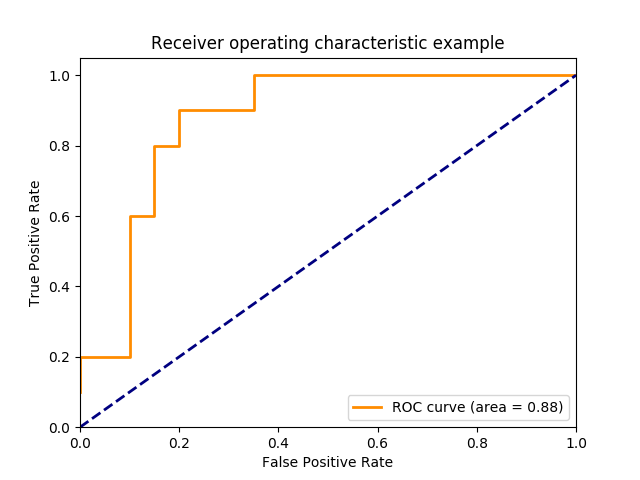
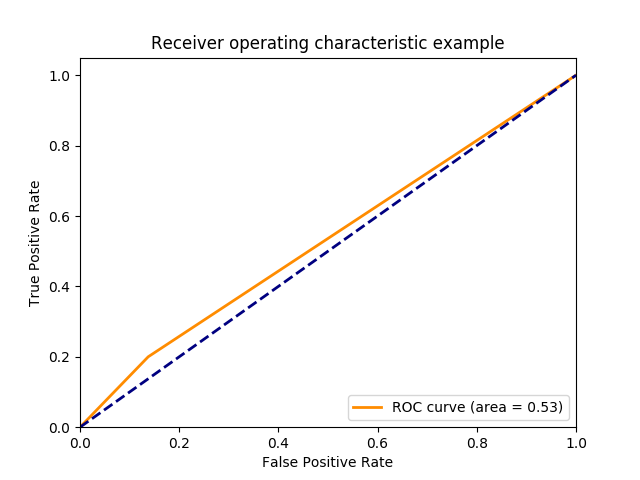
pu roc curve implemented and changed the y_score from logReg roc curve

diff --git a/iris/src/irisPUClassification.py b/iris/src/irisPUClassification.py
@@ -1,12 +1,13 @@
 #!/usr/bin/python3
 import numpy as np
 import pandas as pd
+import matplotlib.pyplot as plt
 
 import random
 import sys
 
 from sklearn.model_selection import train_test_split
-from sklearn.metrics import f1_score, confusion_matrix
+from sklearn.metrics import f1_score, confusion_matrix, roc_curve, auc
 from sklearn.model_selection import cross_val_score
 
 from pywsl.pul import pu_mr
@@ -52,3 +53,30 @@ for specie in ['Iris-setosa', 'Iris-versicolor', 'Iris-virginica']:
     # Confusion Matrix calculation
     conf_matrix = confusion_matrix(y_test, y_predict)
     print('\nConfusion Matrix:\n\n', conf_matrix)
+
+    # ROC Curve calculation
+    fpr = dict()
+    tpr = dict()
+    roc_auc = dict()
+    y_test_values = y_test.values
+
+    fpr[0], tpr[0], _ = roc_curve(y_test_values, y_predict)
+    roc_auc[0] = auc(fpr[0], tpr[0])
+
+    # Compute micro-average ROC curve and ROC area
+    fpr["micro"], tpr["micro"], _ = roc_curve(y_test_values, y_predict)
+    roc_auc["micro"] = auc(fpr["micro"], tpr["micro"])
+
+    plt.figure()
+    lw = 2
+    plt.plot(fpr[0], tpr[0], color='darkorange',
+            lw=lw, label='ROC curve (area = %0.2f)' % roc_auc[0])
+    plt.plot([0, 1], [0, 1], color='navy', lw=lw, linestyle='--')
+    plt.xlim([0.0, 1.0])
+    plt.ylim([0.0, 1.05])
+    plt.xlabel('False Positive Rate')
+    plt.ylabel('True Positive Rate')
+    plt.title('Receiver operating characteristic example')
+    plt.legend(loc="lower right")
+    plt.savefig('../output/rocCurves/pu/' + specie + '.png')
+

diff --git a/iris/src/irisLogRegClassification.py b/iris/src/irisLogRegClassification.py
@@ -33,7 +33,7 @@ for specie in ['Iris-setosa', 'Iris-versicolor', 'Iris-virginica']:
     logReg = LogisticRegression()
 
     # Train the model
-    probs = logReg.fit(x_train, y_train).predict_proba(x_test)[:, 1]
+    logReg.fit(x_train, y_train)
 
     # Test the model
     y_predict = logReg.predict(x_test)
@@ -57,12 +57,11 @@ for specie in ['Iris-setosa', 'Iris-versicolor', 'Iris-virginica']:
     roc_auc = dict()
     y_test_values = y_test.values
 
-    fpr[0], tpr[0], _ = roc_curve(y_test_values, probs)
+    fpr[0], tpr[0], _ = roc_curve(y_test_values, y_predict)
     roc_auc[0] = auc(fpr[0], tpr[0])
 
-    print(probs)
     # Compute micro-average ROC curve and ROC area
-    fpr["micro"], tpr["micro"], _ = roc_curve(y_test_values, probs)
+    fpr["micro"], tpr["micro"], _ = roc_curve(y_test_values, y_predict)
     roc_auc["micro"] = auc(fpr["micro"], tpr["micro"])
 
     plt.figure()

diff --git a/iris/src/README.md b/iris/src/README.md
@@ -1,22 +1,22 @@
 # Machine Learning Results:
-## Multi-layer Perceptron with training size = 120:
+## Multi-layer Perceptron with training size = 30:
 
 f1-score:
 
- 0.5666666666666667
+ 0.9583333333333334
 
 Confusion Matrix:
 
- [[10  0  0]
- [ 8  2  0]
- [ 2  3  5]]
+ [[40  0  0]
+ [ 0 35  5]
+ [ 0  0 40]]
 
 Cross-validation:
 
-Accuracy: 0.97 (+/- 0.02)
+Accuracy: 0.67 (+/- 0.30)
 
 
-## Logistic Regression with training size = 120:
+## Logistic Regression with training size = 30:
 ### Iris-setosa
 
 f1-score:
@@ -25,98 +25,77 @@ f1-score:
 
 Confusion Matrix:
 
- [[20  0]
- [ 0 10]]
+ [[80  0]
+ [ 0 40]]
 
 Cross-validation:
 
 Accuracy: 1.00 (+/- 0.00)
 
 
-[9.79221624e-01 9.60710736e-01 2.83315578e-03 1.95038578e-02
- 2.86528927e-02 9.78079267e-01 9.23576361e-04 3.89758006e-03
- 8.42141403e-03 2.89798219e-04 2.30608235e-02 2.43483765e-03
- 9.71010644e-01 9.72030170e-01 9.55297463e-01 3.14272338e-03
- 9.82655605e-01 9.49374896e-03 9.93761252e-01 2.09505110e-02
- 2.69702789e-04 9.93361028e-01 3.83641515e-03 1.96716063e-03
- 1.70519457e-02 9.51899140e-05 1.32064145e-02 2.28872299e-02
- 7.36836298e-03 9.70604686e-01]
 ### Iris-versicolor
 
 f1-score:
 
- 0.4
+ 0.2711864406779661
 
 Confusion Matrix:
 
- [[18  2]
- [ 7  3]]
+ [[69 11]
+ [32  8]]
 
 Cross-validation:
 
-Accuracy: 0.66 (+/- 0.03)
+Accuracy: 0.67 (+/- 0.00)
 
 
-[0.15380337 0.57131319 0.2988196  0.18191623 0.27816856 0.29821842
- 0.17067828 0.66598037 0.13205232 0.13309375 0.5951387  0.31892759
- 0.39351951 0.42669818 0.51595628 0.16595147 0.23072709 0.49478761
- 0.12676825 0.20026115 0.14319364 0.37321713 0.44801527 0.41831949
- 0.58226782 0.39552633 0.36771092 0.20030213 0.20994687 0.40174347]
 ### Iris-virginica
 
 f1-score:
 
- 0.9523809523809523
+ 0.975609756097561
 
 Confusion Matrix:
 
- [[19  1]
- [ 0 10]]
+ [[78  2]
+ [ 0 40]]
 
 Cross-validation:
 
-Accuracy: 0.97 (+/- 0.03)
+Accuracy: 0.97 (+/- 0.07)
 
 
-[9.81455727e-01 8.87174116e-01 1.47796945e-05 1.20995911e-04
- 8.77848274e-02 9.47748242e-01 7.57336570e-01 3.57007890e-02
- 8.67375261e-01 1.78356293e-04 1.84267623e-01 8.59648249e-01
- 3.79713938e-01 1.25062513e-01 3.48255111e-05 7.98521296e-01
- 8.15431225e-01 9.88282495e-01 1.49129047e-04 5.98149698e-05
- 8.91006602e-02 3.12018416e-01 9.51787477e-01 2.55487990e-05
- 1.94960275e-01 6.49522046e-01 2.66495244e-05 1.10972354e-04
- 7.97991467e-05 3.03897449e-01]
-## Positive-Unlabeled Classification with training size = 120 and positive size = 10:
+## Positive-Unlabeled Classification with training size = 30 and positive size = 10:
 ### Iris-setosa
 
 bin_clf_err:
 
- 1.0
+ 0.9130434782608696
 
 Confusion Matrix:
 
  [[ 0  0  0]
- [24  0  4]
- [ 2  0  0]]
+ [95  0 19]
+ [ 2  0  4]]
 ### Iris-versicolor
 
 bin_clf_err:
 
- 0.9166666666666667
+ nan
 
 Confusion Matrix:
 
- [[ 0  0  0]
- [24  0  5]
- [ 0  0  1]]
+ [[  0   0   0]
+ [115   0   0]
+ [  5   0   0]]
 ### Iris-virginica
 
 bin_clf_err:
 
- 1.0
+ 0.8888888888888888
 
 Confusion Matrix:
 
- [[ 0  0  0]
- [22  0  7]
- [ 1  0  0]]
+ [[  0   0   0]
+ [106   0   7]
+ [  5   0   2]]
